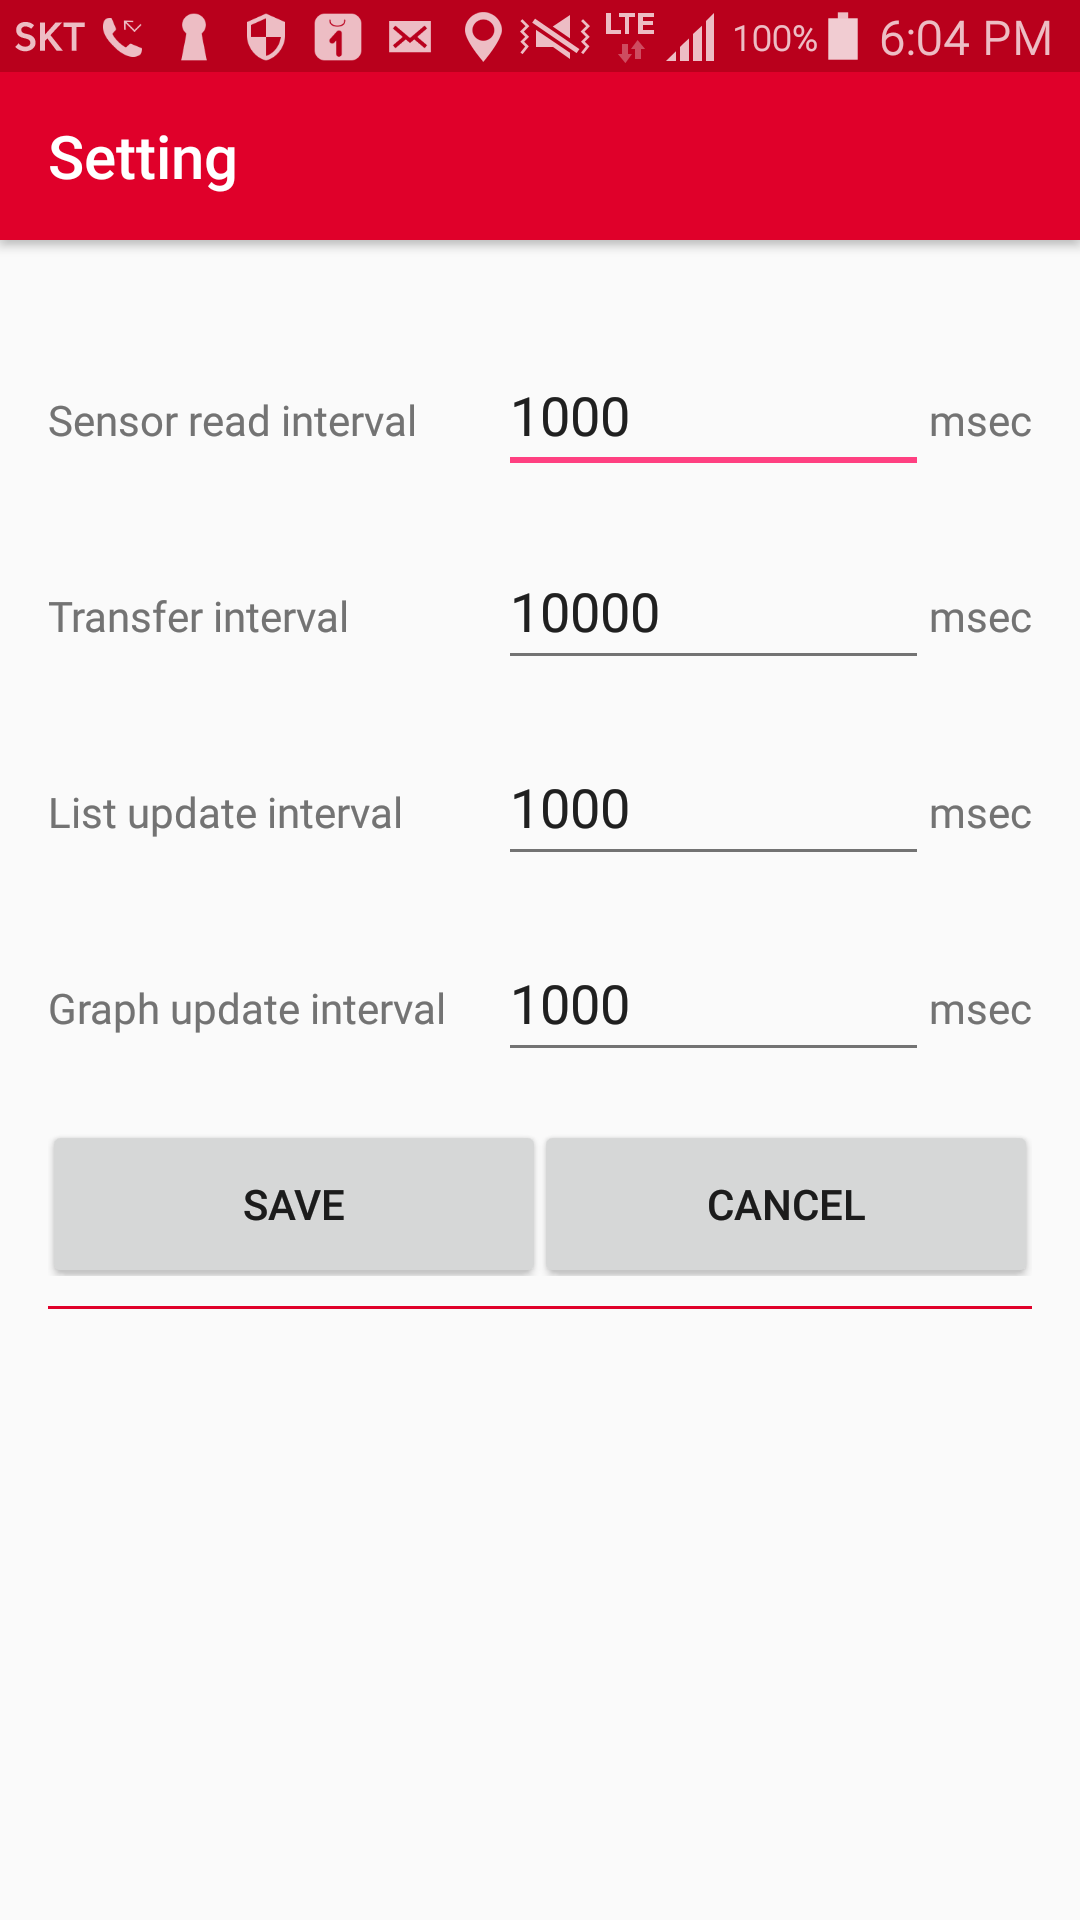
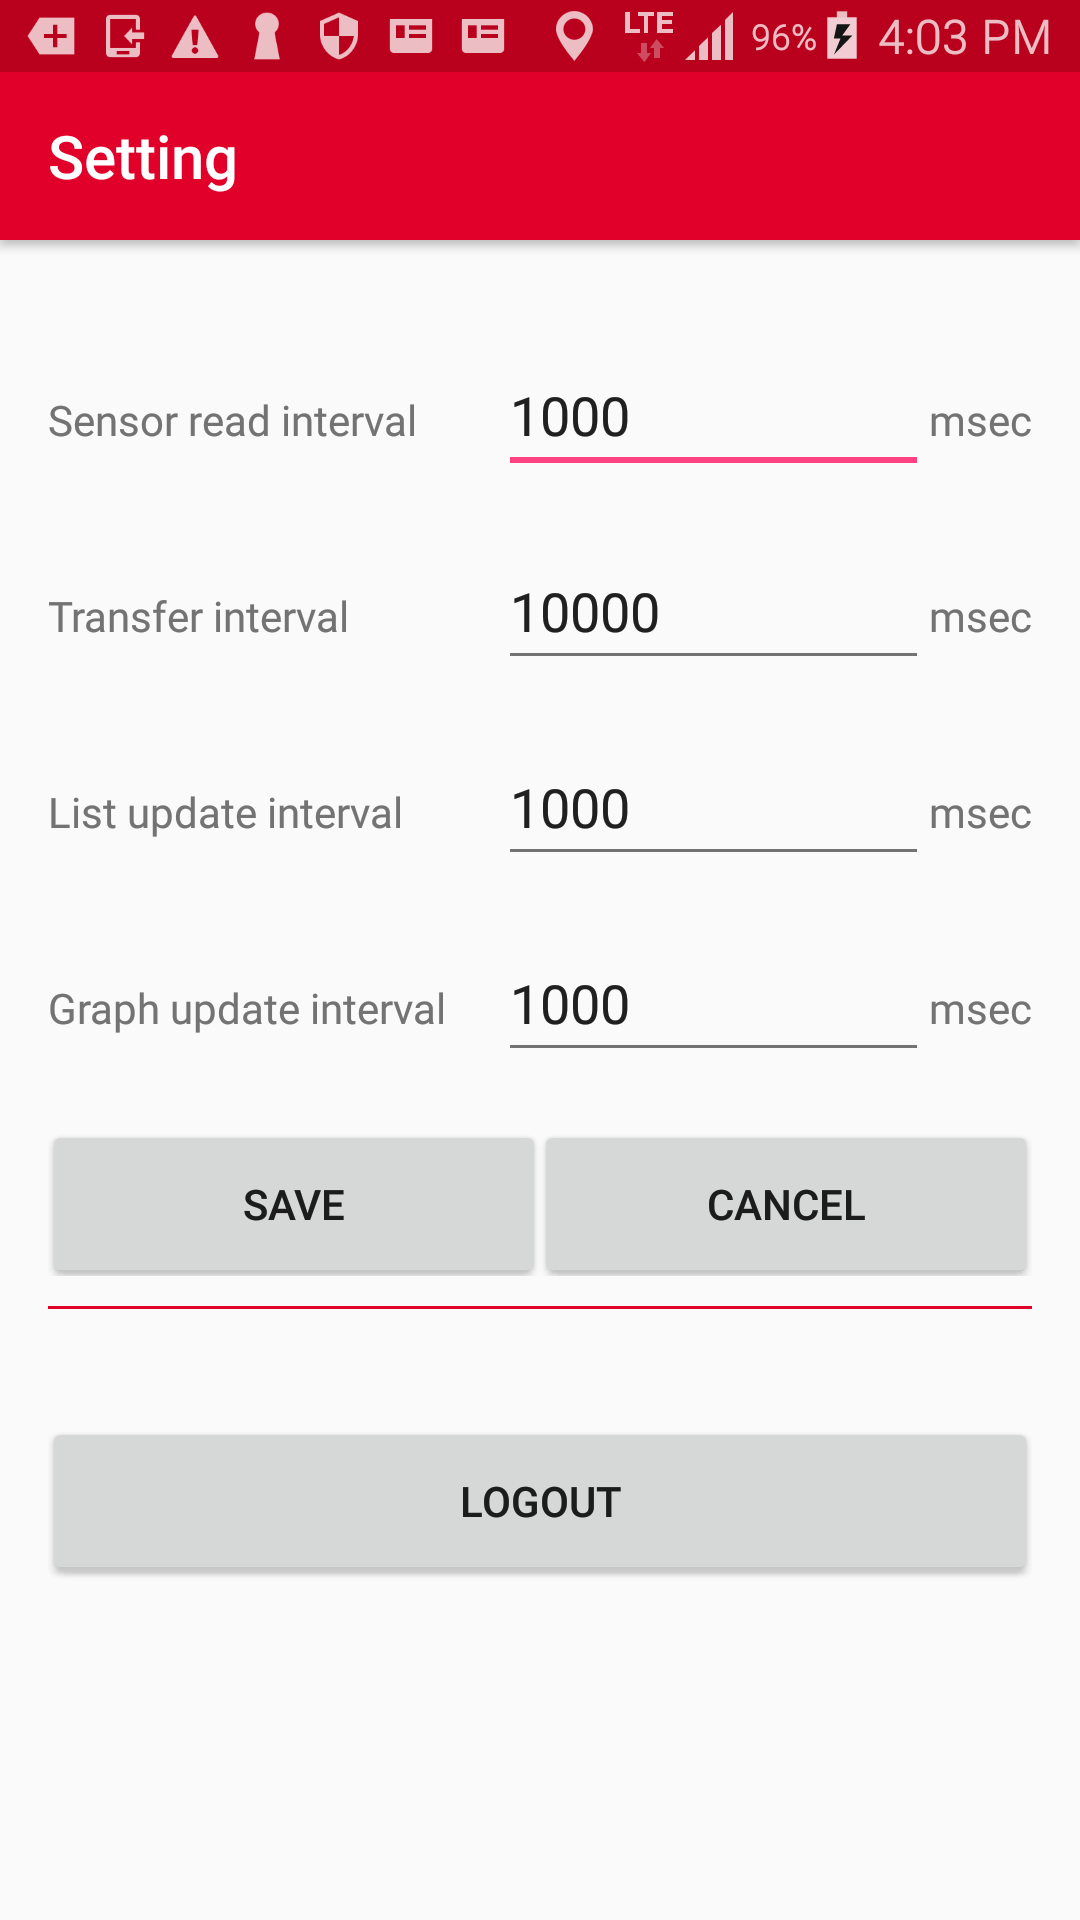
Simple working

diff --git a/SDK_Simple/Android/Sample_App.md b/SDK_Simple/Android/Sample_App.md
@@ -29,8 +29,6 @@ Actuator 목록
 2. LED : off, red, green, blue, magenta, cyan, yellow, white
 3. Camera : back, front
 
-> 카메라로 촬영한 사진은 Google Drive API를 통해 주고받게 됩니다. Google Drive API 사용을 위해서는 **[링크](GoogleDrive.md)**의 과정을 진행하여야 합니다.
-
 
 ## Device Application
 ---
@@ -42,37 +40,32 @@ Actuator 목록
 3. 약관 동의
 	<br/><img src="images/terms.png" width="25%"/>
 	- AGREE를 선택할 경우, 위치정보 사용동의를 통해 해당 단말의 위치정보를 ThingPlug에 전송하게 됩니다.
-4. Google account 선택
-	<br/><img src="images/device_google_account.png" width="25%"/>
-    - Camera 촬영 이미지를 업로드할 Google account를 선택합니다. Service App과 동일한 account를 사용해야 합니다.
-    - Camera 촬영 기능을 사용하지 않을 경우는 Back키를 눌러 이 단계를 건너뛰면 됩니다.
-5. 로컬 센서 목록
+
+4. 로컬 센서 목록
 	<br/><img src="images/local_sensor_list.png" width="25%"/>
 	- 해당 단말에서 지원하는 센서 목록이 표시됩니다.
 	- 센서 켜기(ENABLED)/끄기(DISABLED) 기능 : ThingPlug로 전송할 센서 정보를 선택할 수 있습니다. Device App에서 특정 센서를 끄면 Service App에서 원격으로 해당 센서의 활성화 및 비활성화 제어가 불가능하게 됩니다.
 	- 센서 활성화(ACTIVATED)/비활성화(DEACTIVATED) 상태 표시 : Service App을 통해 원격에서 ThingPlug로 전송할 센서 정보를 선택할 수 있습니다. 원격에서 제어중인 특정 센서의 활성화 여부를 확인할 수 있습니다.
 	- 특정 센서 선택 시 해당 센서의 상세 화면으로 이동합니다.
-6. 센서 상세 화면
+5. 센서 상세 화면
 	<br/><img src="images/sensor_detail.png" width="25%"/>
     - 센서 상태값을 그래프로 표시합니다. 센서값에 따라 세로축이 가변으로 변하도록 설정되어 있습니다.
-7. 환경 설정
+6. 환경 설정
 	<br/><img src="images/device_setting.png" width="25%"/>
     - Sensor read interval(msec) : 센서에서 값을 읽어오는 간격
     - Transfer interval(msec) : 센서 정보를 ThingPlug 서버로 전송하는 간격
     - List update interval(msec) : 센서 목록 화면을 갱신하는 간격
     - Graph update interval(msec) : 센서 상세 화면의 그래프를 갱신하는 간격
+	- Logout 버튼 : 로그인 정보를 삭제하고 로그인 화면으로 이동
 
 ## Service Application
 ---
 1. 동작 환경
 	- Android OS 4.0.3(ICE_CREAM_SANDWICH_MR1, API Level 15) 이상
 2. 디바이스 선택
-	<br/><img src="images/device_list.png" width="25%"/>
-	- ThingPlug 포털에 등록된 디바이스 목록을 표시합니다. 한번에 한개의 디바이스를 모니터링 할 수 있으므로 모니터링하고자 하는 디바이스를 선택합니다.
-3. Google account 선택
-	<br/><img src="images/service_google_account.png" width="25%"/>
-    - Device App에서 선택한 Google account와 동일한 account를 선택합니다.
-4. 원격 센서 목록
+	<br/><img src="images/service_login.png" width="25%"/>
+	- 로그인을하면, ThingPlug 포털에 등록된 서비스와 디바이스 목록을 표시합니다. 서비스 선택 후, 한번에 한개의 디바이스를 모니터링 할 수 있으므로 모니터링하고자 하는 디바이스를 선택합니다.
+3. 원격 센서 목록
 	<br/><img src="images/remote_sensor_list.png" width="25%"/>
 	- 전체 센서 목록이 나열되며, Device App에서 미지원하거나 꺼진(DISABLED) 센서의 경우 비활성화된 상태로 표시됩니다.
 	- 센서 활성화(ACTIVATED)/비활성화(DEACTIVATED) 기능 : Device App의 센서 활성화 상태를 원격에서 변경합니다.
@@ -85,5 +78,6 @@ Actuator 목록
     - Transfer interval(msec) : Device 앱의 센서 주기보고 간격, 제어를 통해 전달한다.
     - Graph update interval(msec) : 센서 상세 화면의 그래프를 갱신하는 간격
     - Show content : 선택시 Device 앱으로부터 전달된 content raw data 를 보여준다.
+	- Logout 버튼 : 로그인 정보를 삭제하고 로그인 화면으로 이동
 
 Copyright (c) 2017 SK Telecom Co., Ltd. All Rights Reserved.
